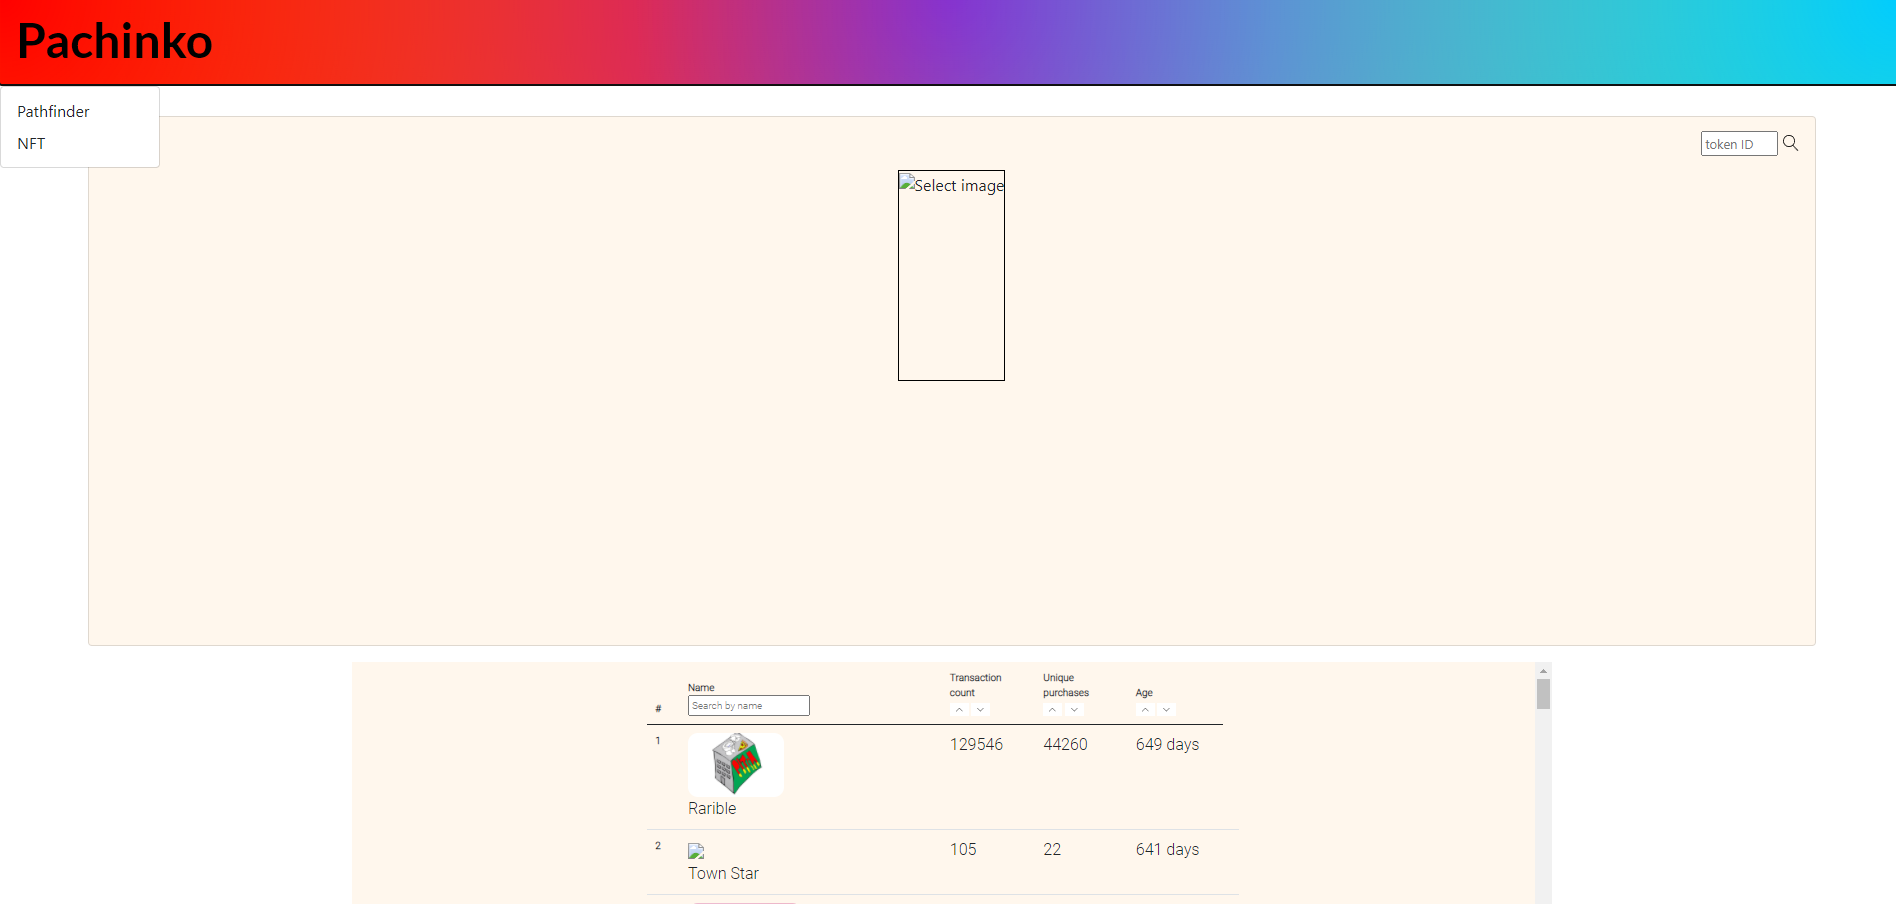
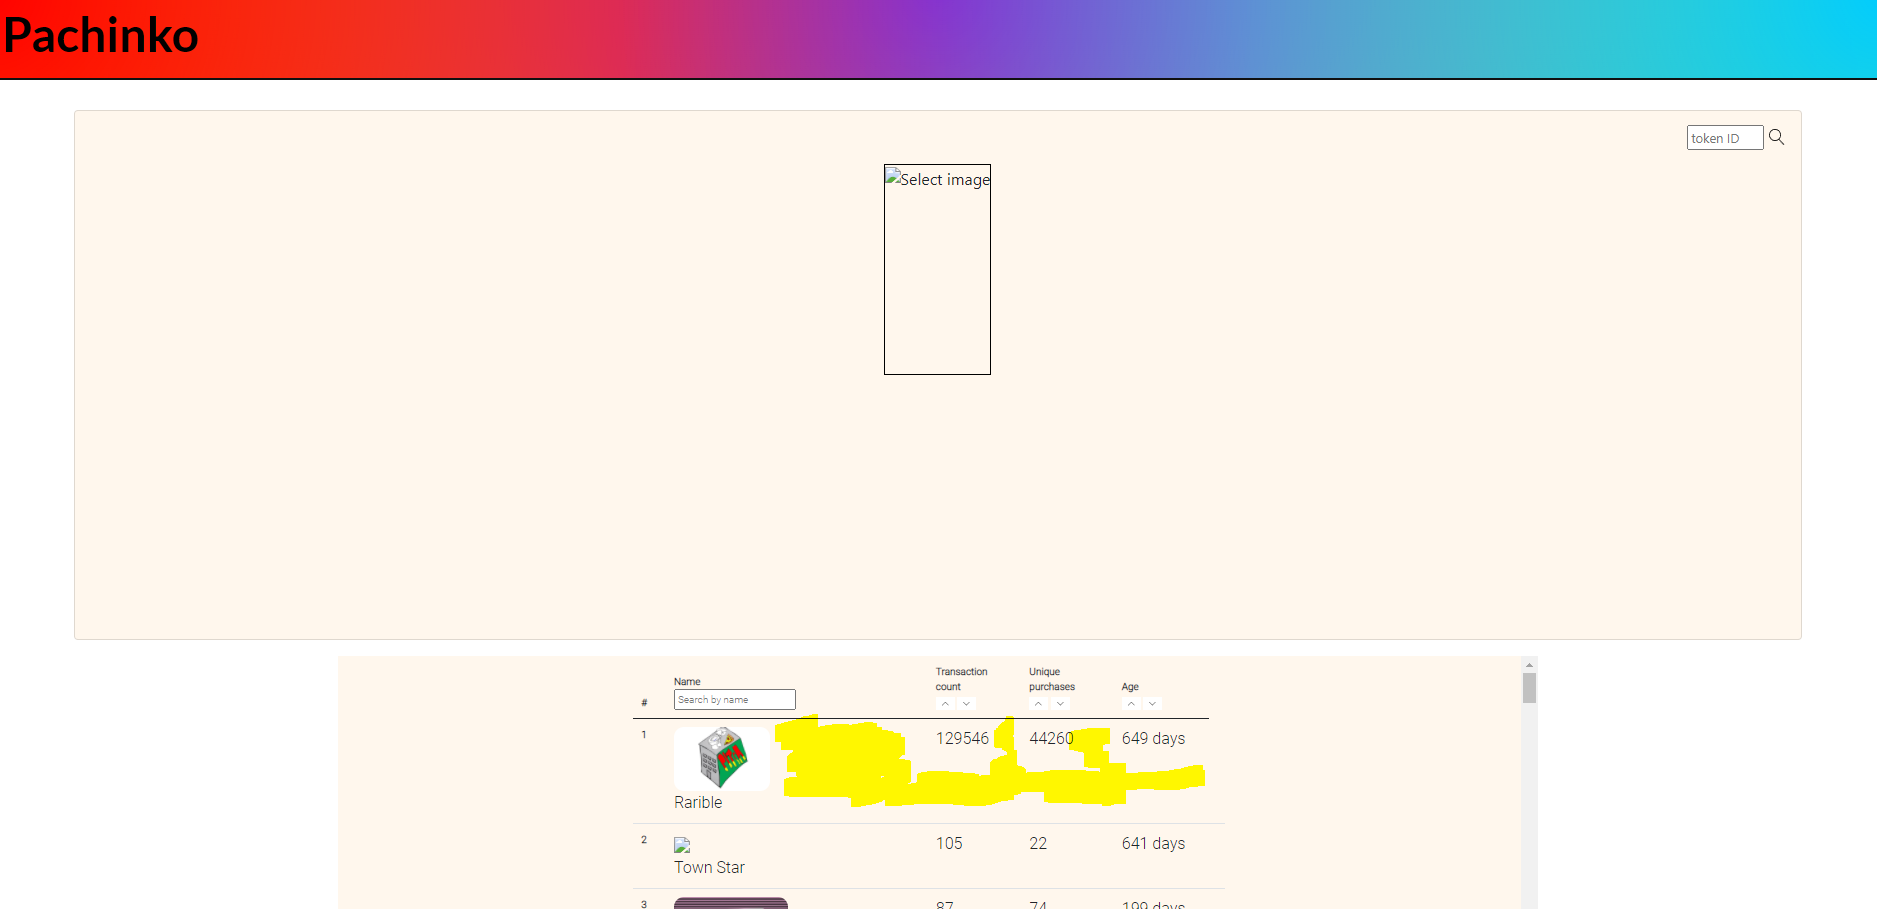
Overwrite image

diff --git a/README.md b/README.md
@@ -51,6 +51,9 @@ Font family: `'Roboto', sans-serif;`
 Select a token from the list| Enter any amount inside| Enter token that do not share a common platform. i.e. BNB and Ethereum | Click on the middle button that has both up arrow and bottom arrow
 |
 Chart should change immediately| Click on Graph / Route button (Red button) and it will display the route it take. You can verify this on https://app.1inch.io/#/1/classic/swap/ETH/DAI. Top right hand corner allows user to change the chain. It will display the route it takes | Nothing will display because there is no route | It will reverse the tokens 
+
+
+<img src="./readme.image/NFT_Dashboard.PNG" style="width:100%">
 # API
 Coingecko : https://api.coingecko.com/api/v3/ 
 1inch API : https://api.1inch.io/v4.0/
